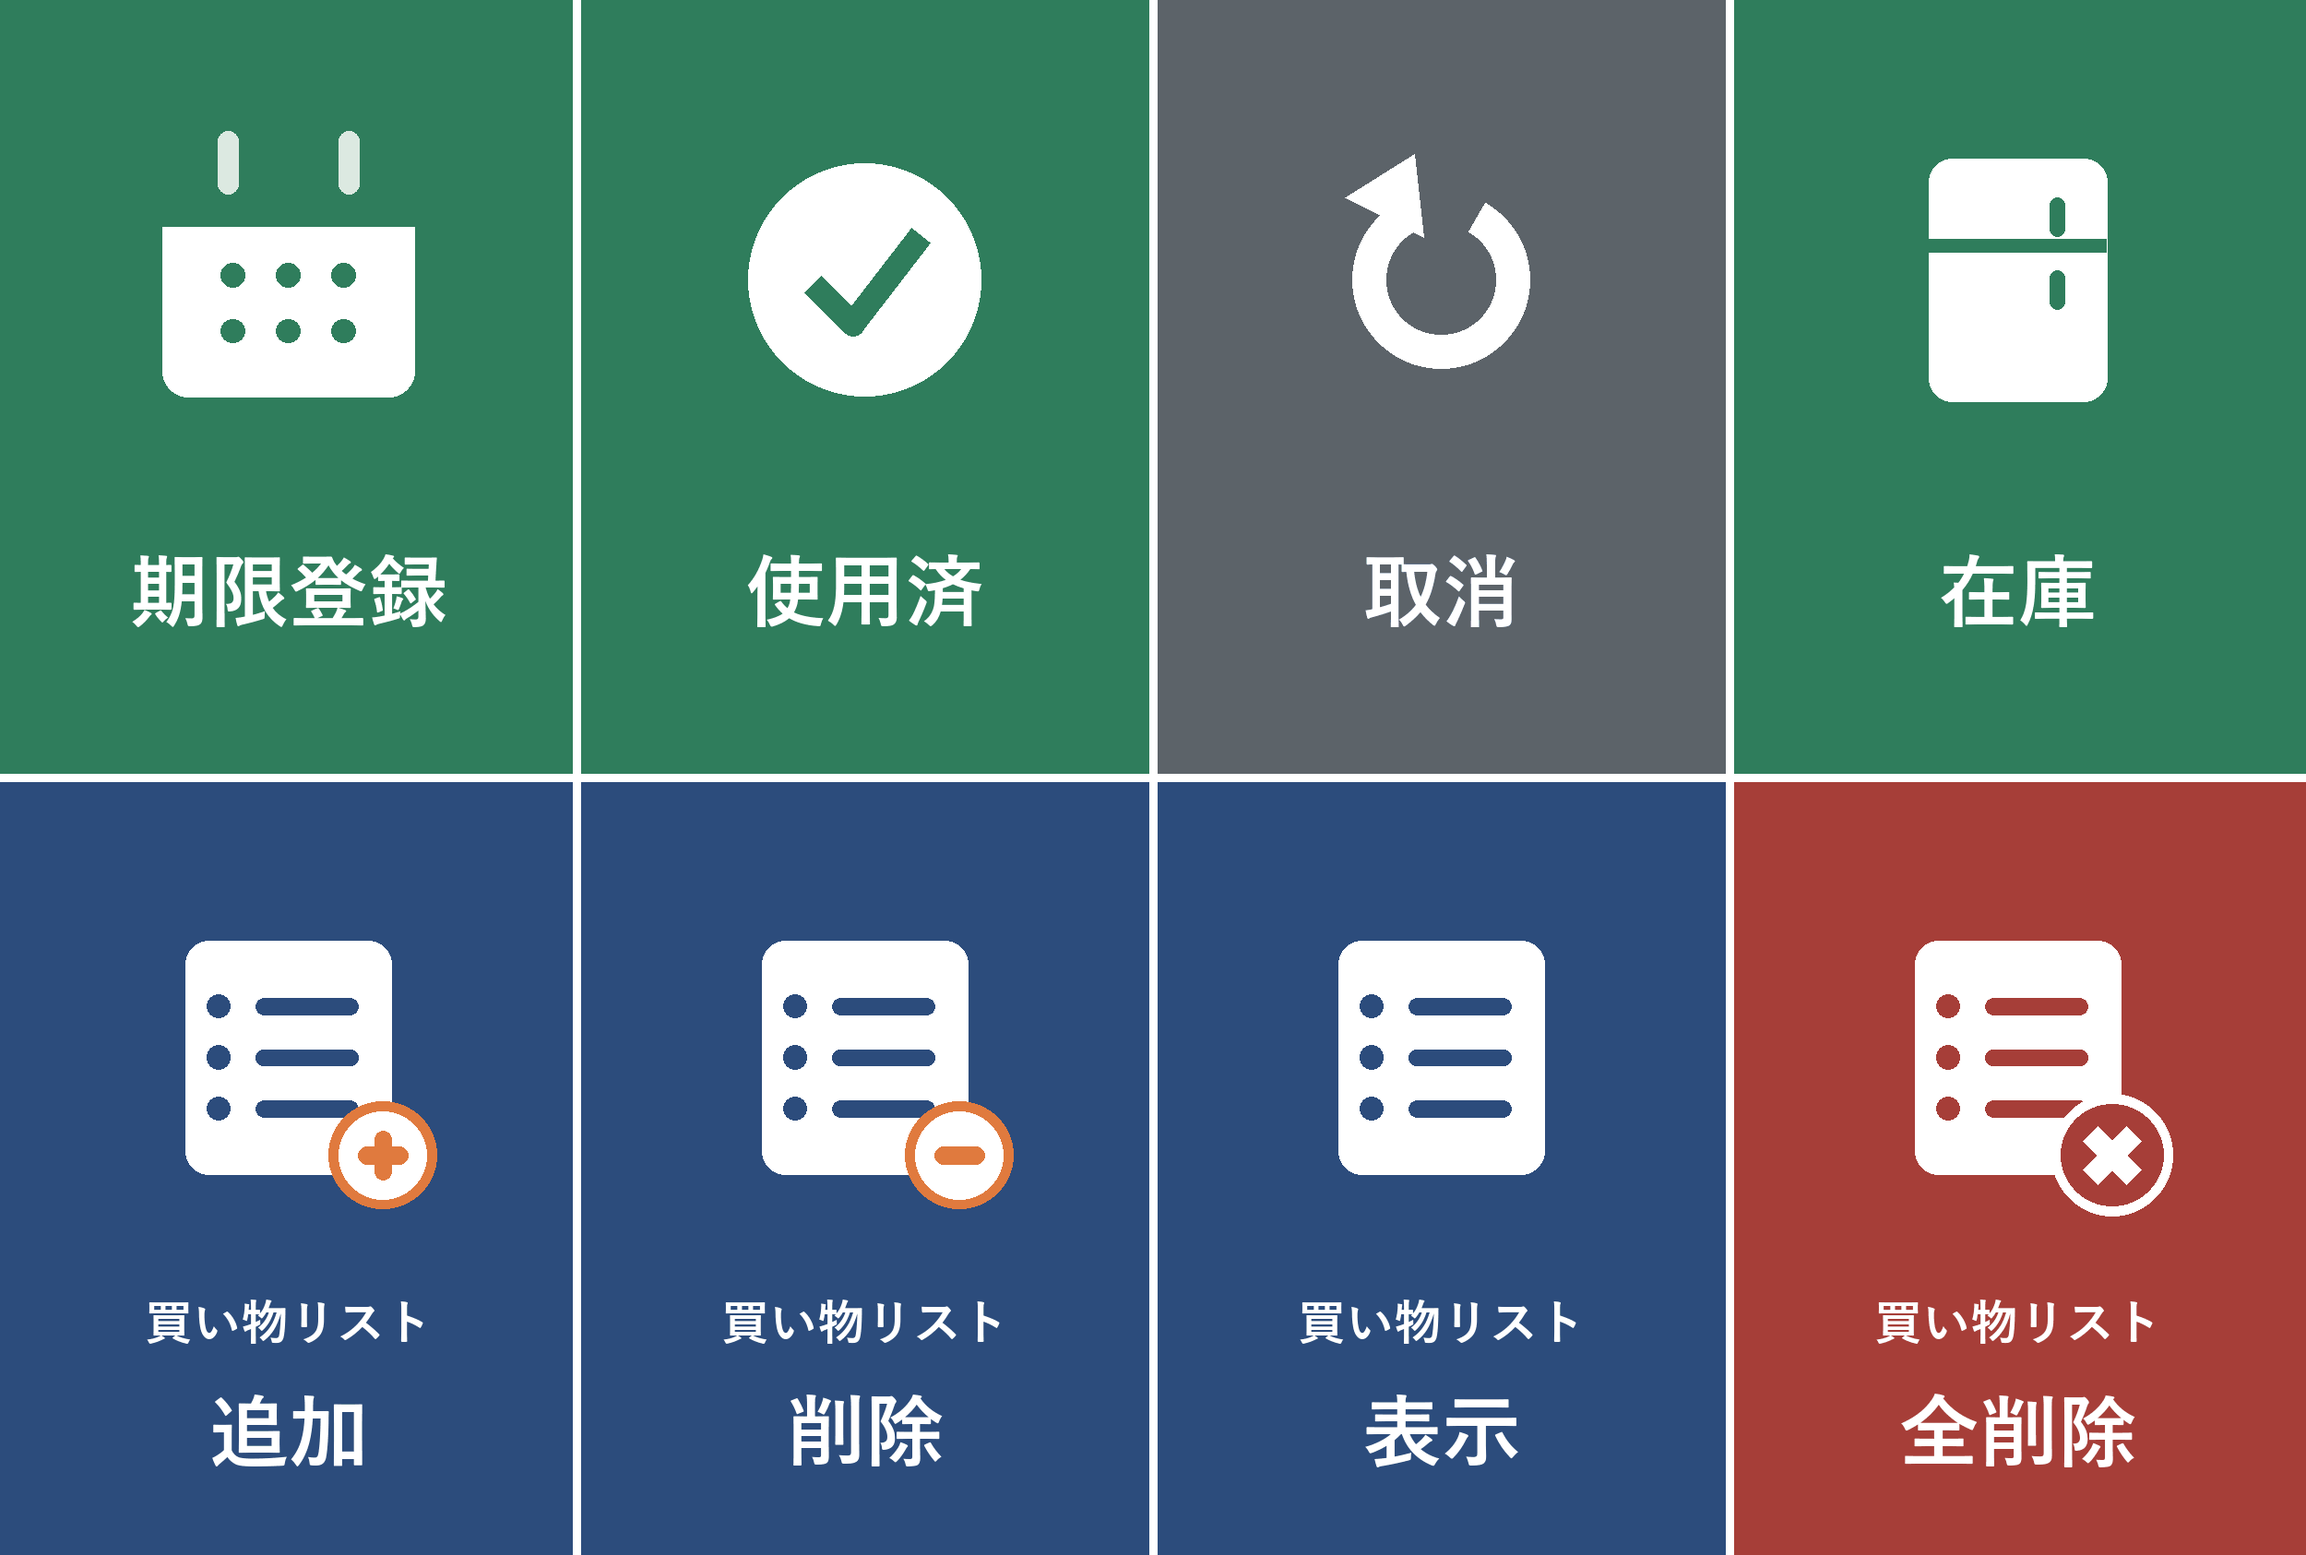
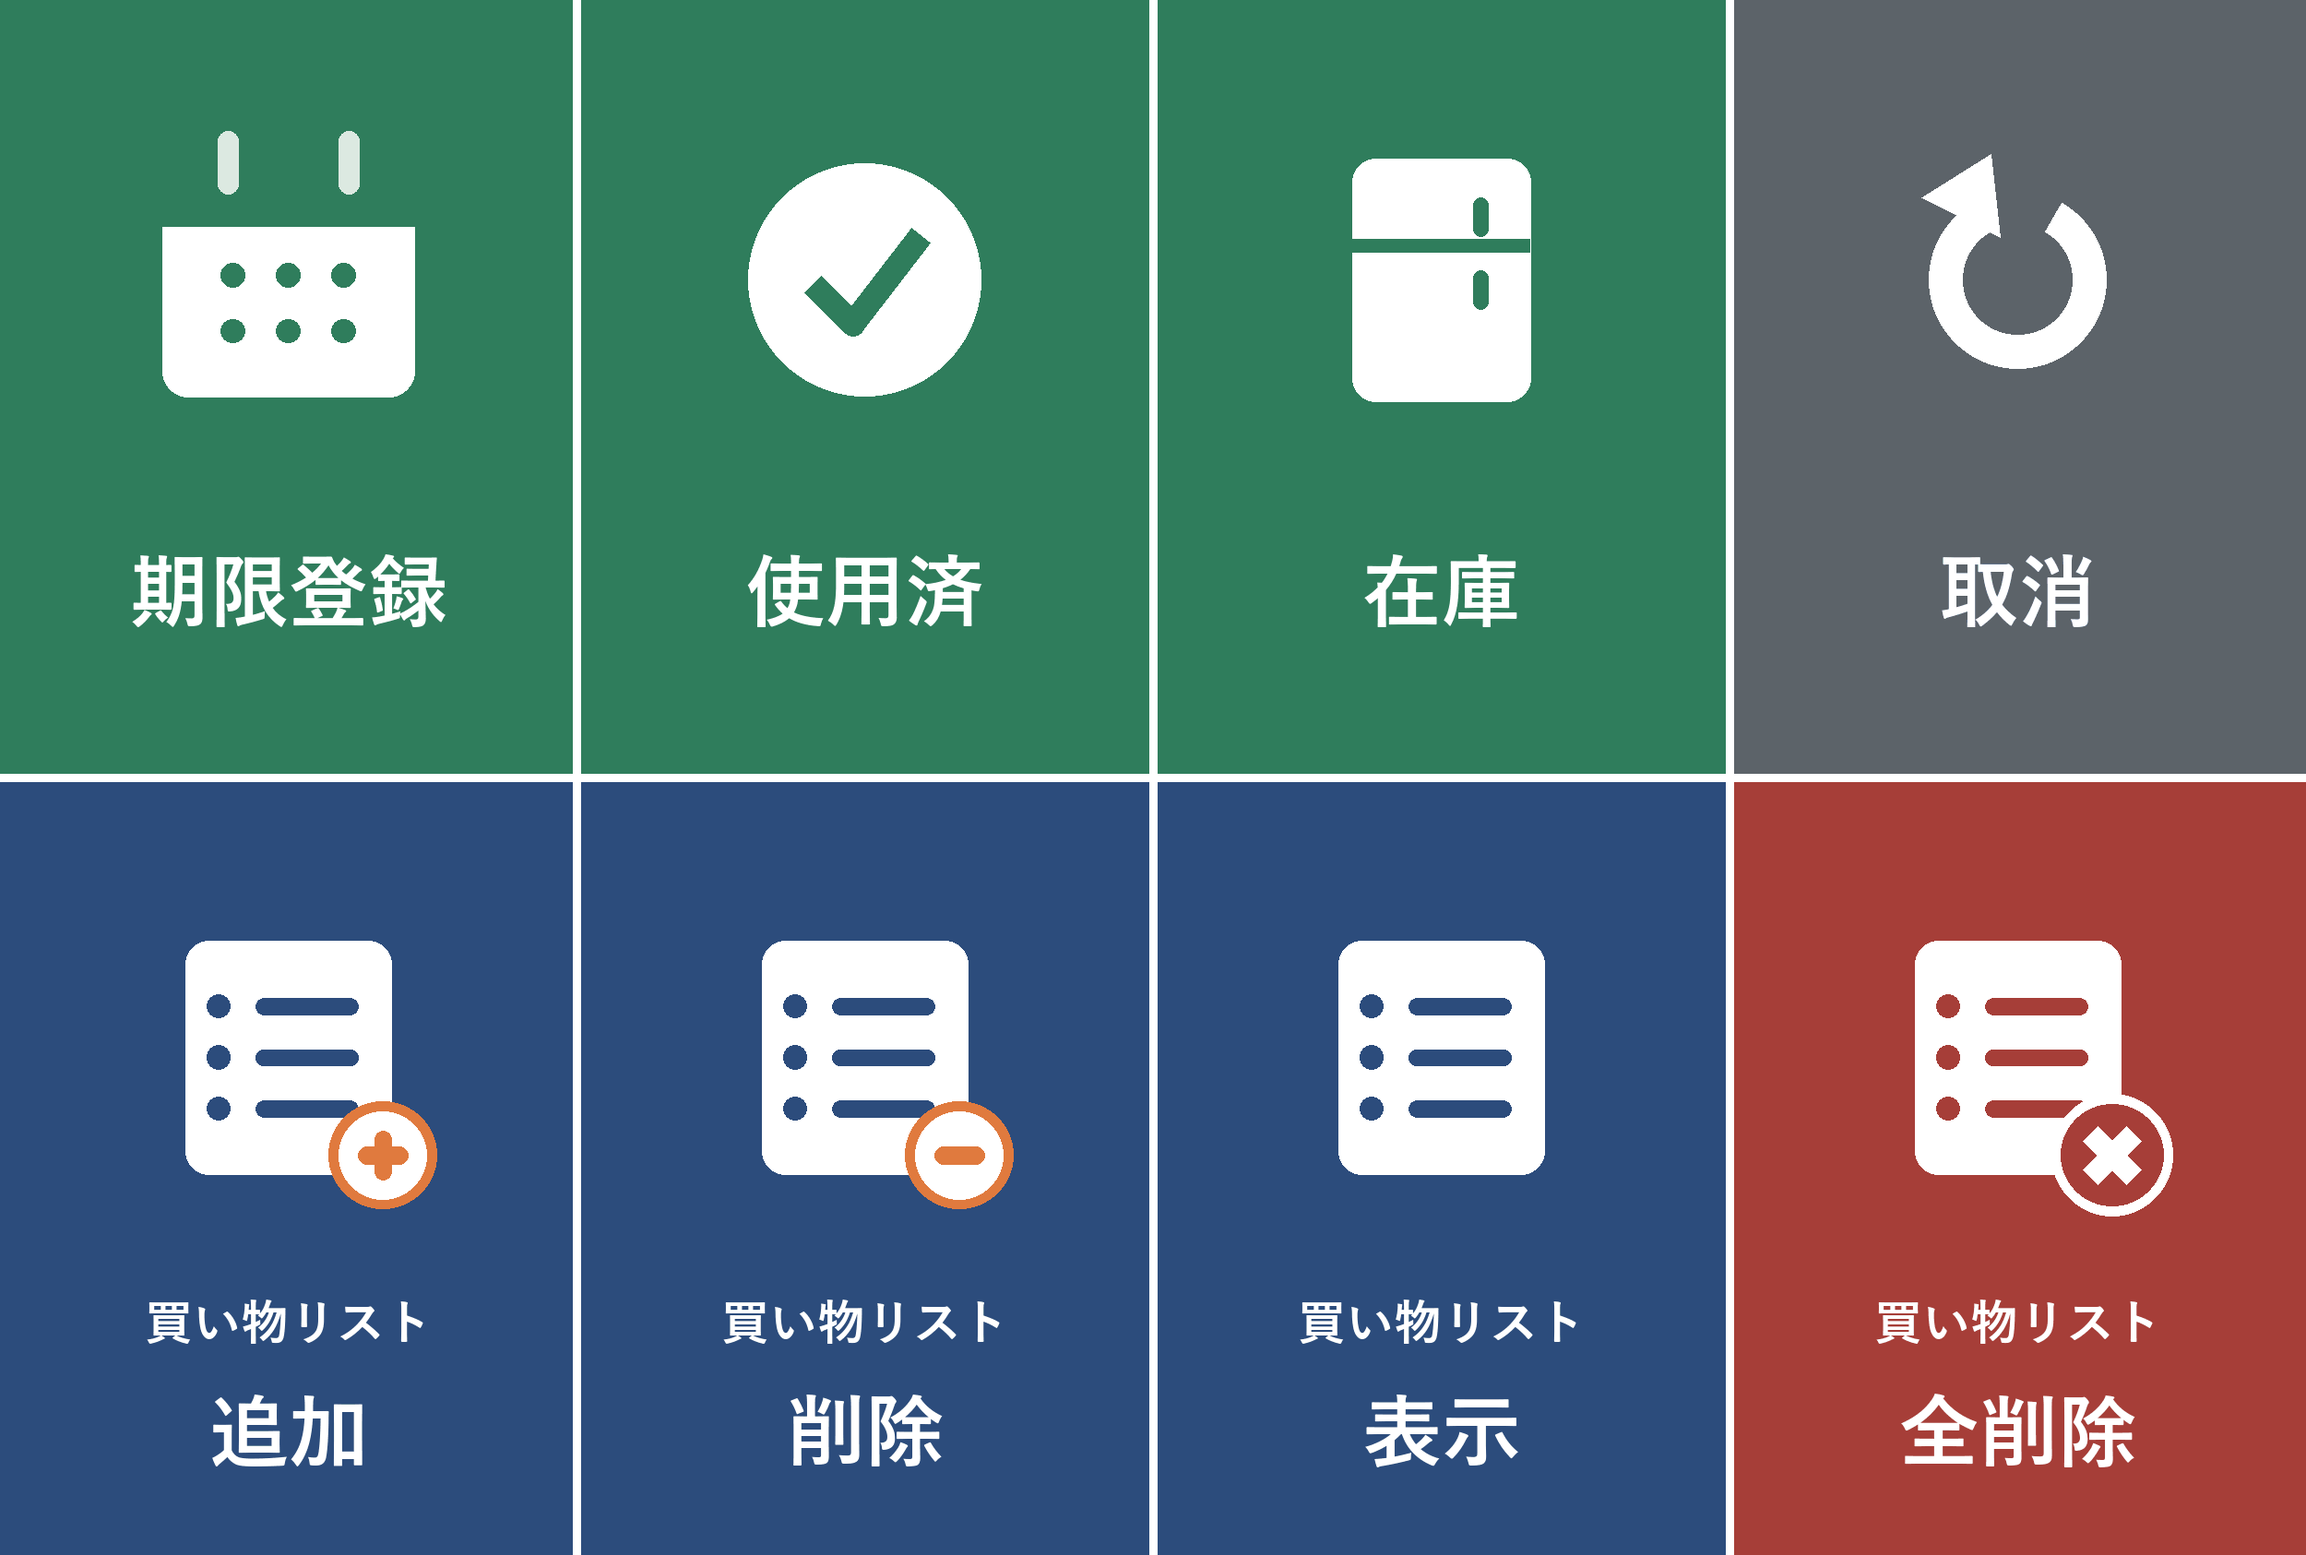
Put 取消 next to 買い物リスト全削除
上段を 期限登録／使用済／在庫／取消 の順にする。
取消が全削除の真上に来るので、押し間違えても指を動かさず戻せる。

Changed region(s): [[0.4992, 0.0, 1.0, 0.5243]]

diff --git a/04-food-expiry/richmenu.py b/04-food-expiry/richmenu.py
@@ -136,9 +136,10 @@ CELLS = [
     # (col, row, 見出し, 2行目, アイコン, 背景, 前景)
     (0, 0, "期限登録", None,       icon_calendar, GREEN, GREEN_DARK),
     (1, 0, "使用済",   None,       icon_check,    GREEN, GREEN_DARK),
-    # 取消は在庫にも買い物リストにも効くので、どちらの色にも寄せない
-    (2, 0, "取消",     None,       icon_undo,     GRAY,  GRAY_DARK),
-    (3, 0, "在庫",     None,       icon_fridge,   GREEN, GREEN_DARK),
+    (2, 0, "在庫",     None,       icon_fridge,   GREEN, GREEN_DARK),
+    # 取消は在庫にも買い物リストにも効くので、どちらの色にも寄せない。
+    # 真下の「全削除」を押し間違えたときに、指を動かさず戻せる位置でもある
+    (3, 0, "取消",     None,       icon_undo,     GRAY,  GRAY_DARK),
     (0, 1, "買い物リスト", "追加",  lambda *a: icon_list(*a, mark="+"), BLUE, BLUE_DARK),
     (1, 1, "買い物リスト", "削除",  lambda *a: icon_list(*a, mark="-"), BLUE, BLUE_DARK),
     (2, 1, "買い物リスト", "表示",  icon_list,                          BLUE, BLUE_DARK),

diff --git a/04-food-expiry/SETUP.md b/04-food-expiry/SETUP.md
@@ -327,7 +327,7 @@ Botに `id` と送って返ってきた userId を、スクリプトプロパテ
 
 ```
 ┌────────┬────────┬────────┬────────┐
-│ 期限登録 │ 使用済  │  取消   │  在庫   │
+│ 期限登録 │ 使用済  │  在庫   │  取消   │
 ├────────┼────────┼────────┼────────┤
 │ 買い物  │ 買い物  │ 買い物  │ 買い物  │
 │ リスト  │ リスト  │ リスト  │ リスト  │
